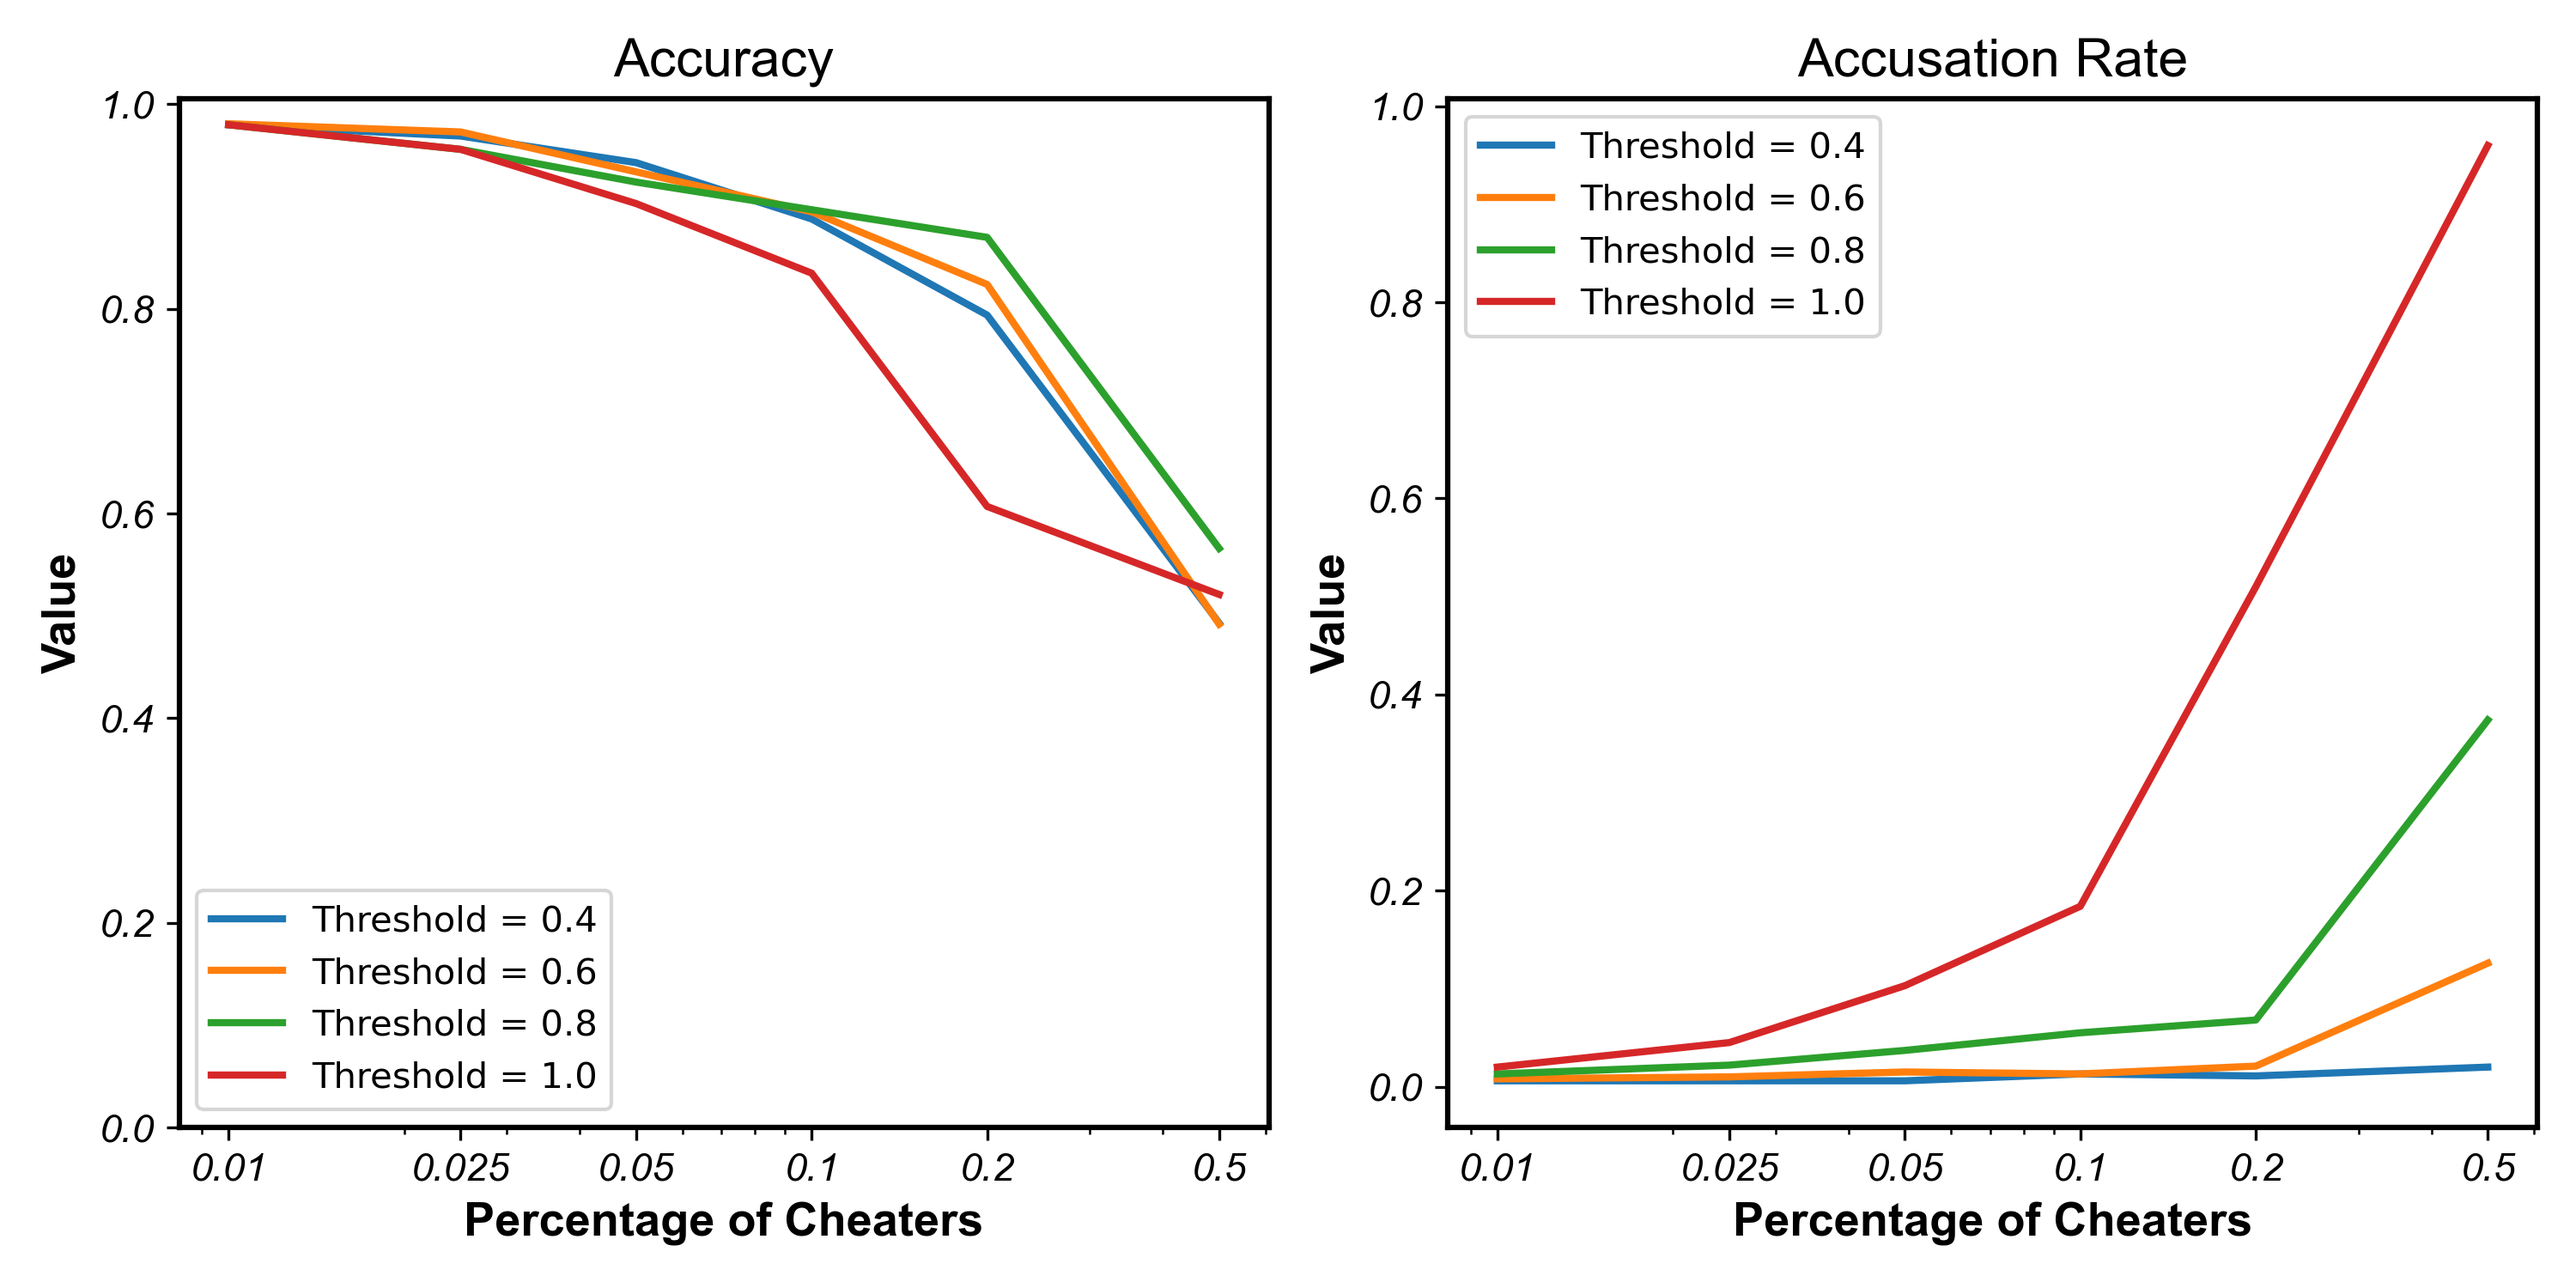
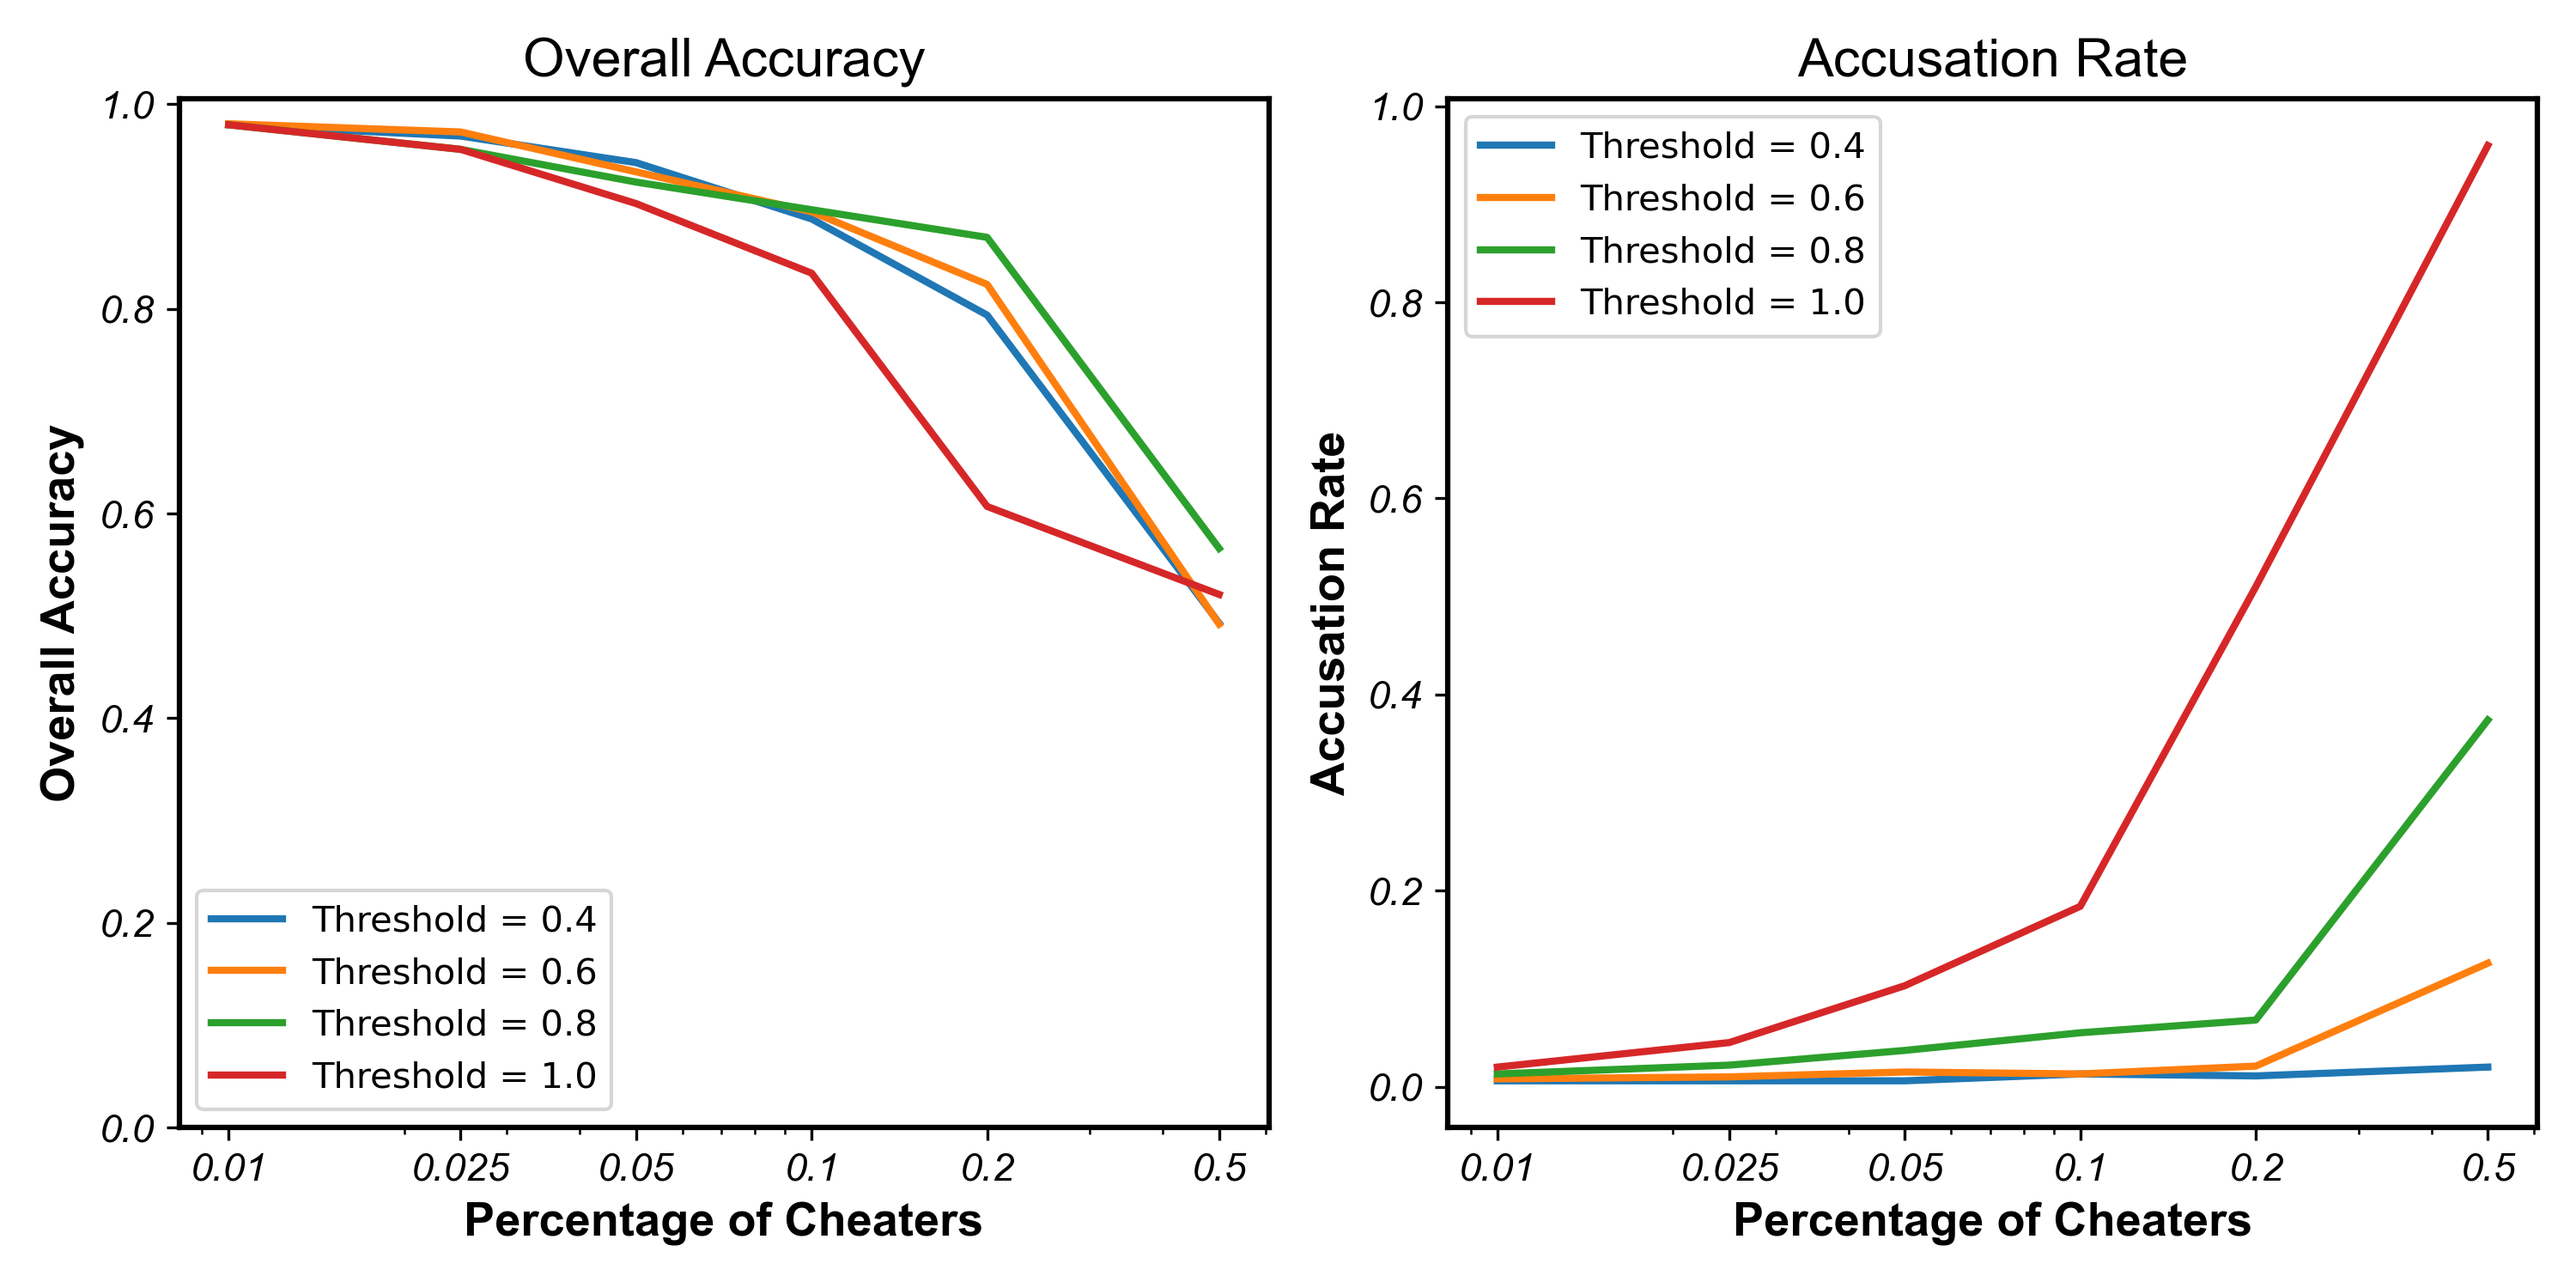
0.17

Changed region(s): [[0.496, 0.3373, 0.527, 0.6133], [0.0, 0.3373, 0.031, 0.6133], [0.186, 0.0307, 0.372, 0.0613]]

diff --git a/result.py b/result.py
@@ -107,104 +107,104 @@ if __name__ == '__main__':
     #                            [accListSum, errdetListSum, errmisListSum, misjugListSum]):
 
 
-    # plt.figure(figsize=(10,5))
-    # ax1 = plt.subplot(121)
-    # ax2 = plt.subplot(122)
-    #
-    # axes = [ax1, ax2]
-    # for ax, title, data in zip(axes, ["Accuracy", "Accusation Rate"],
-    #                            [accListSum, misjugListSum]):
-    #     for line,index in zip(data,["0.4","0.6","0.8","1.0"]):
-    #         ax.plot(x, line, linewidth=2,label="Threshold = "+index)
-    #
-    #     fontTitle = {
-    #         'family': 'Arial',
-    #         'weight': 'normal',
-    #         # 'style': 'italic',
-    #         'size': 15,
-    #     }
-    #     fontLabel = {
-    #         'family': 'Arial',
-    #         'weight': 'bold',
-    #         # 'style': 'italic',
-    #         'size': 13,
-    #     }
-    #     fontTick = {
-    #         'family': 'Arial',
-    #         'weight': 'normal',
-    #         'style': 'italic',
-    #         'size': 11,
-    #     }
-    #     ax.set_xlabel("Percentage of Cheaters", fontLabel)
-    #     ax.set_ylabel("Value", fontLabel)
-    #     ax.set_xscale("log")
-    #     # ax.set_ylim(0.0,1.0)
-    #     ax.set_xticks(x)
-    #     ax.set_xticklabels(x, fontTick)
-    #     ax.set_yticks(y)
-    #     ax.set_yticklabels(y, fontTick)
-    #     # ax.yaxis.grid(True)
-    #     ax.spines["top"].set_linewidth(1.5)
-    #     ax.spines["bottom"].set_linewidth(1.5)
-    #     ax.spines["left"].set_linewidth(1.5)
-    #     ax.spines["right"].set_linewidth(1.5)
-    #     ax.set_title(title, fontdict=fontTitle)
-    #     ax.legend()
-    # plt.tight_layout()
-    # plt.savefig("fig/accLineChart.png",dpi=300)
-    # plt.show()
+    plt.figure(figsize=(10,5))
+    ax1 = plt.subplot(121)
+    ax2 = plt.subplot(122)
+
+    axes = [ax1, ax2]
+    for ax, title, data in zip(axes, ["Overall Accuracy", "Accusation Rate"],
+                               [accListSum, misjugListSum]):
+        for line,index in zip(data,["0.4","0.6","0.8","1.0"]):
+            ax.plot(x, line, linewidth=2,label="Threshold = "+index)
+
+        fontTitle = {
+            'family': 'Arial',
+            'weight': 'normal',
+            # 'style': 'italic',
+            'size': 15,
+        }
+        fontLabel = {
+            'family': 'Arial',
+            'weight': 'bold',
+            # 'style': 'italic',
+            'size': 13,
+        }
+        fontTick = {
+            'family': 'Arial',
+            'weight': 'normal',
+            'style': 'italic',
+            'size': 11,
+        }
+        ax.set_xlabel("Percentage of Cheaters", fontLabel)
+        ax.set_ylabel(title, fontLabel)
+        ax.set_xscale("log")
+        # ax.set_ylim(0.0,1.0)
+        ax.set_xticks(x)
+        ax.set_xticklabels(x, fontdict=fontTick)
+        ax.set_yticks(y)
+        ax.set_yticklabels(y, fontdict=fontTick)
+        # ax.yaxis.grid(True)
+        ax.spines["top"].set_linewidth(1.5)
+        ax.spines["bottom"].set_linewidth(1.5)
+        ax.spines["left"].set_linewidth(1.5)
+        ax.spines["right"].set_linewidth(1.5)
+        ax.set_title(title, fontdict=fontTitle)
+        ax.legend()
+    plt.tight_layout()
+    plt.savefig("fig/accLineChart.png",dpi=300)
+    plt.show()
 
     # 柱状图
-    fontTitle = {
-        'family': 'Arial',
-        'weight': 'normal',
-        # 'style': 'italic',
-        'size': 15,
-    }
-    fontLabel = {
-        'family': 'Arial',
-        'weight': 'bold',
-        # 'style': 'italic',
-        'size': 13,
-    }
-    fontTick = {
-        'family': 'Arial',
-        'weight': 'normal',
-        'style': 'italic',
-        'size': 11,
-    }
-    # colors = ["#264653","#2a9d8c","#e9c46b","#e66f51"]
-    colors = ["#a40545", "#f48f44", "#fdd985", "#7fcba4"]
-
-    ax1 = plt.subplot(221)
-    ax2 = plt.subplot(222)
-    ax3 = plt.subplot(223)
-    ax4 = plt.subplot(224)
-    axes = [ax1, ax2, ax3, ax4]
-    for ax, (th, res) in zip(axes, data.items()):
-        ax.set_title("Threshold = " + th[2:], fontdict=fontTitle)
-        TT = np.array([i["TT"] for i in res.values()])
-        TF = np.array([i["TF"] for i in res.values()])
-        FT = np.array([i["FT"] for i in res.values()])
-        FF = np.array([i["FF"] for i in res.values()])
-        ax.bar(range(1, len(x) + 1), FF, width=0.6, color=colors[0], label="FF")
-        ax.bar(range(1, len(x) + 1), TF, width=0.6, color=colors[1], bottom=FF, label="TF")
-        ax.bar(range(1, len(x) + 1), FT, width=0.6, color=colors[2], bottom=FF + TF, label="FT")
-        ax.bar(range(1, len(x) + 1), TT, width=0.6, color=colors[3], bottom=FF + TF + FT, label="TT")
-        # ax.bar(range(1, len(x) + 1), FF, width=0.6, color=colors[0], edgecolor="black", linewidth=0.5, label="FF")
-        # ax.bar(range(1, len(x) + 1), TF, width=0.6, color=colors[1], edgecolor="black", linewidth=0.5, bottom=FF, label="TF")
-        # ax.bar(range(1, len(x) + 1), FT, width=0.6, color=colors[2], edgecolor="black", linewidth=0.5, bottom=FF + TF, label="FT")
-        # ax.bar(range(1, len(x) + 1), TT, width=0.6, color=colors[3], edgecolor="black", linewidth=0.5, bottom=FF + TF + FT, label="TT")
-        ax.set_xticks(range(1, len(x) + 1))
-        ax.set_xticklabels(x, fontTick)
-        ax.set_ylim(0, 1000)
-        ax.set_xlabel("Percentage of Cheaters", fontLabel)
-        ax.set_ylabel("Persons", fontLabel)
-
-    # plt.legend(ncol=4,bbox_to_anchor=(0, -0.5),prop=fontLabel)
-    plt.legend(prop=fontLabel)
-    # plt.subplots_adjust(left=None, bottom=None, right=None, top=None, wspace=0.2, hspace=0.5)
-    # plt.figure(figsize=(10,10))
-    plt.tight_layout()
-    plt.savefig("fig/distributionChart.png",dpi=300)
-    plt.show()
+    # fontTitle = {
+    #     'family': 'Arial',
+    #     'weight': 'normal',
+    #     # 'style': 'italic',
+    #     'size': 15,
+    # }
+    # fontLabel = {
+    #     'family': 'Arial',
+    #     'weight': 'bold',
+    #     # 'style': 'italic',
+    #     'size': 13,
+    # }
+    # fontTick = {
+    #     'family': 'Arial',
+    #     'weight': 'normal',
+    #     'style': 'italic',
+    #     'size': 11,
+    # }
+    # # colors = ["#264653","#2a9d8c","#e9c46b","#e66f51"]
+    # colors = ["#a40545", "#f48f44", "#fdd985", "#7fcba4"]
+    #
+    # ax1 = plt.subplot(221)
+    # ax2 = plt.subplot(222)
+    # ax3 = plt.subplot(223)
+    # ax4 = plt.subplot(224)
+    # axes = [ax1, ax2, ax3, ax4]
+    # for ax, (th, res) in zip(axes, data.items()):
+    #     ax.set_title("Threshold = " + th[2:], fontdict=fontTitle)
+    #     TT = np.array([i["TT"] for i in res.values()])
+    #     TF = np.array([i["TF"] for i in res.values()])
+    #     FT = np.array([i["FT"] for i in res.values()])
+    #     FF = np.array([i["FF"] for i in res.values()])
+    #     ax.bar(range(1, len(x) + 1), FF, width=0.6, color=colors[0], label="FF")
+    #     ax.bar(range(1, len(x) + 1), TF, width=0.6, color=colors[1], bottom=FF, label="TF")
+    #     ax.bar(range(1, len(x) + 1), FT, width=0.6, color=colors[2], bottom=FF + TF, label="FT")
+    #     ax.bar(range(1, len(x) + 1), TT, width=0.6, color=colors[3], bottom=FF + TF + FT, label="TT")
+    #     # ax.bar(range(1, len(x) + 1), FF, width=0.6, color=colors[0], edgecolor="black", linewidth=0.5, label="FF")
+    #     # ax.bar(range(1, len(x) + 1), TF, width=0.6, color=colors[1], edgecolor="black", linewidth=0.5, bottom=FF, label="TF")
+    #     # ax.bar(range(1, len(x) + 1), FT, width=0.6, color=colors[2], edgecolor="black", linewidth=0.5, bottom=FF + TF, label="FT")
+    #     # ax.bar(range(1, len(x) + 1), TT, width=0.6, color=colors[3], edgecolor="black", linewidth=0.5, bottom=FF + TF + FT, label="TT")
+    #     ax.set_xticks(range(1, len(x) + 1))
+    #     ax.set_xticklabels(x, fontTick)
+    #     ax.set_ylim(0, 1000)
+    #     ax.set_xlabel("Percentage of Cheaters", fontLabel)
+    #     ax.set_ylabel("Persons", fontLabel)
+    #
+    # # plt.legend(ncol=4,bbox_to_anchor=(0, -0.5),prop=fontLabel)
+    # plt.legend(prop=fontLabel)
+    # # plt.subplots_adjust(left=None, bottom=None, right=None, top=None, wspace=0.2, hspace=0.5)
+    # # plt.figure(figsize=(10,10))
+    # plt.tight_layout()
+    # plt.savefig("fig/distributionChart.png",dpi=300)
+    # plt.show()
